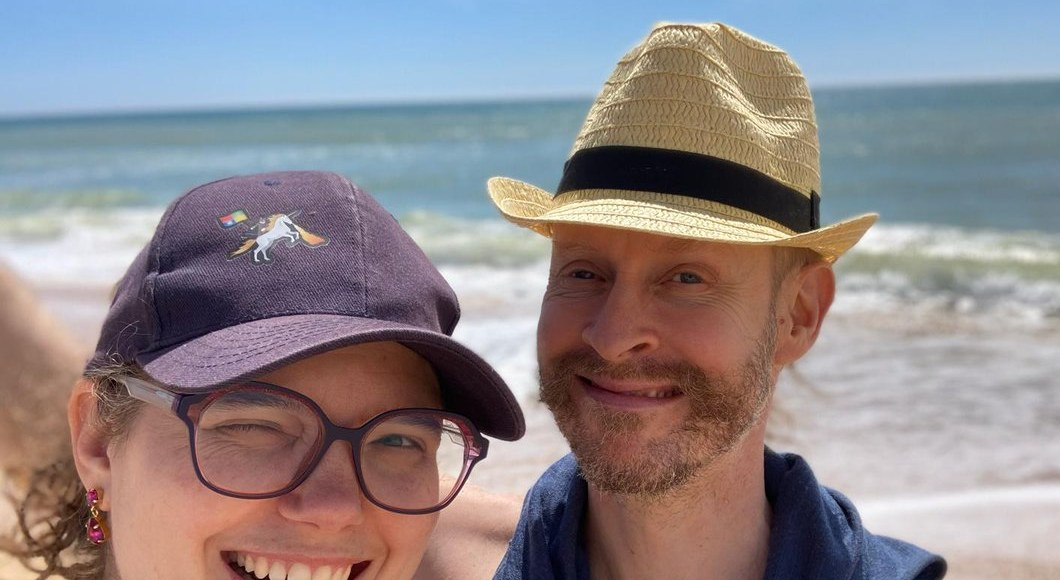
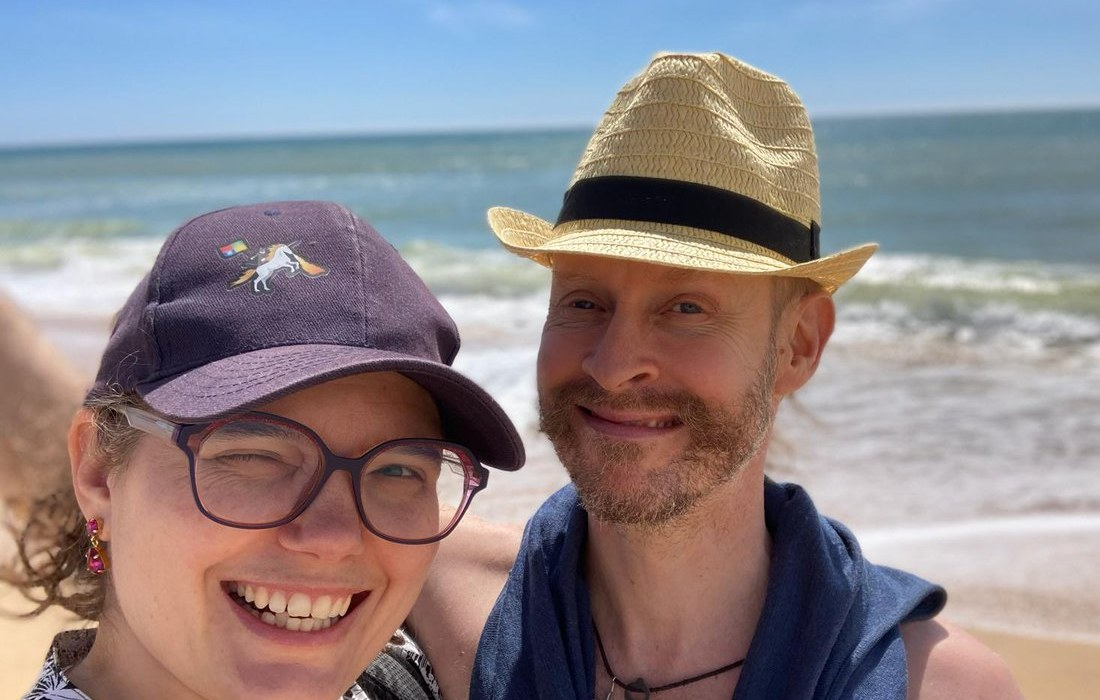
Home wall: show Queen's full face in anniversary crop, drop 'The' from caption
Claude-Session: https://claude.ai/code/session_01Rt1HhRWuGbyPDqgvj17ptV

diff --git a/src/data/wall.ts b/src/data/wall.ts
@@ -28,7 +28,7 @@ export const photos = [
   {
     src: crew,
     alt: "Ola, our daughter and Queen Raae holding hands in a backyard, all three laughing",
-    caption: "The POW! launch March 8th 2020",
+    caption: "POW! launch March 8th 2020",
   },
   {
     src: anniversary,
